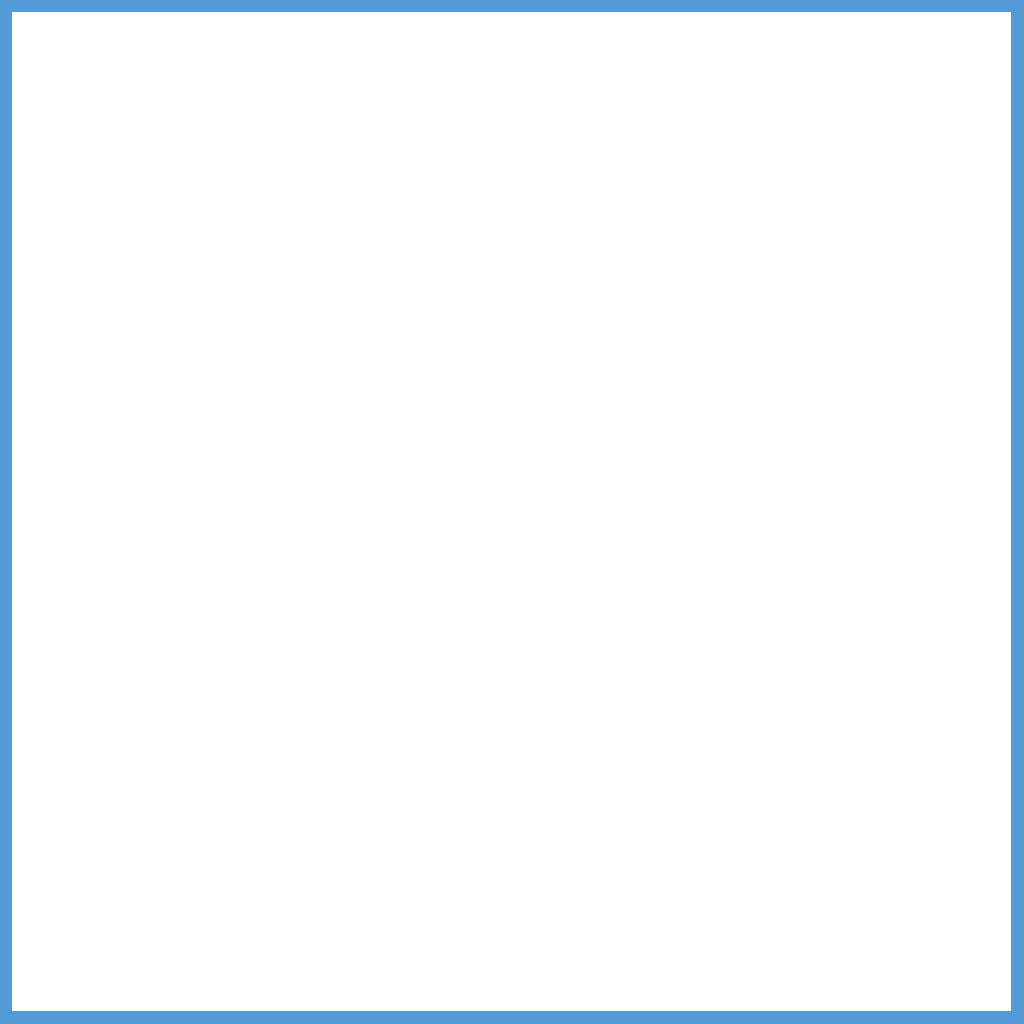
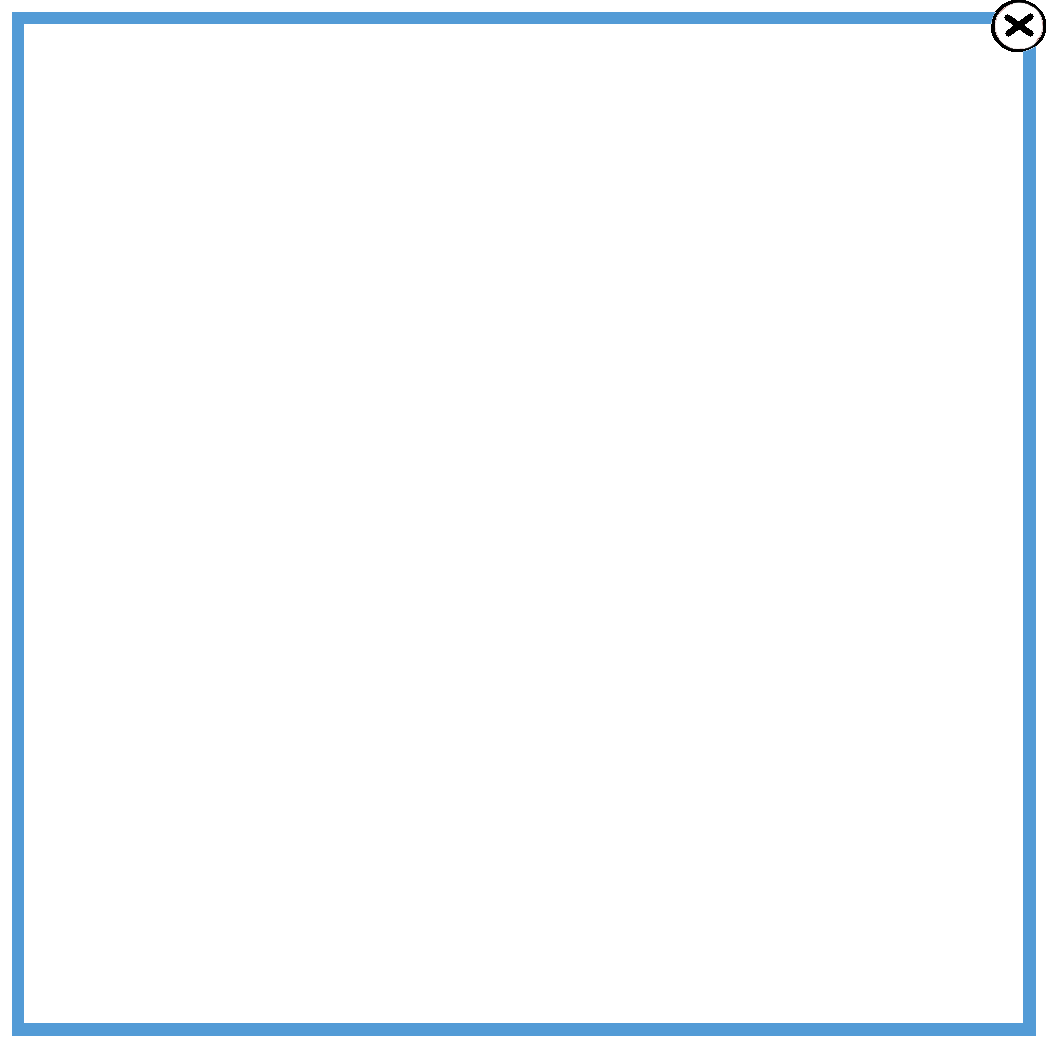
ajout d'un btn fermer sur la fenetre

Changed region(s): [[0.0, 0.0, 1.0, 1.0]]

diff --git a/index.php b/index.php
@@ -30,7 +30,7 @@ $loadProcess = $daeModelLoader->createLoadProcess($dae_models);
     <body> 
         <script>
             if (! Detector.webgl ){
-                window.location.assign("http://lapucealoreille.dev/light");
+                window.location.assign("http://www.lapussealoreille.fr/light");
             }
             var debug = false;
             var container, stats, panier;
@@ -386,7 +386,7 @@ function createTransparentPanel(direction,id,far){
     v.y = 0;
     panelCanvas = document.createElement("canvas");
     var xc = panelCanvas.getContext("2d");
-    panelCanvas.width = panelCanvas.height = 1024;
+    panelCanvas.width = panelCanvas.height = 1048;
     var modelType = pucePool.getModelType(id);
     var caracteristique = document.getElementById(modelType+"_caracteristique").value;
     var description = document.getElementById(modelType+"_description").value;
@@ -399,25 +399,25 @@ function createTransparentPanel(direction,id,far){
     var model_img_1 = document.getElementById(modelType+'_img_1');
     var model_img_2 = document.getElementById(modelType+'_img_2');
     var model_img_3 = document.getElementById(modelType+'_img_3');
-    xc.drawImage(document.getElementById('contour'), 190, 150,670,880);
+    xc.drawImage(document.getElementById('contour'), 194, 153,685,901);
     
-    xc.drawImage(model_img_0, 210, 510, 300, 225);
-    xc.drawImage(model_img_1, 532, 510, 300, 225);
-    xc.drawImage(model_img_2, 210, 770, 300, 225);
-    xc.drawImage(model_img_3, 532, 770, 300, 225);
+    xc.drawImage(model_img_0, 215, 522, 307, 230);
+    xc.drawImage(model_img_1, 544, 522, 307, 230);
+    xc.drawImage(model_img_2, 215, 788, 307, 230);
+    xc.drawImage(model_img_3, 544, 788, 307, 230);
     
     xc.fillStyle = "black";
     xc.font = "13pt arial bold";
-    xc.fillText("LA PUSSE A L'OREILLE - "+nom, 215, 215);
+    xc.fillText("LA PUSSE A L'OREILLE - "+nom, 220, 220);
     xc.font = "10pt arial bold";
     xc.mozImageSmoothingEnabled = false;
-    wrapText(xc, caracteristique, 440, 270, 400, 25);
+    wrapText(xc, caracteristique, 450, 276, 409, 26);
     
     var prix_label = "Acheter pour "+prix+" €";
-    wrapText(xc, prix_label, 710, 320, 800, 340);
+    wrapText(xc, prix_label, 726, 327.5, 819, 350);
     
     xc.font = "8pt arial bold";
-    wrapText(xc, description, 440, 345, 400, 20);    
+    wrapText(xc, description, 450, 360, 400, 21);    
         
     var panelTextGeo = new THREE.PlaneGeometry(15, 15);    
     
@@ -443,16 +443,16 @@ function createTransparentPanel(direction,id,far){
     var baseZ = camera.position.z + direction.z * far;
     
     panelText.position.x = buttonPanier.position.x = baseX ;
-    panelText.position.y = buttonPanier.position.y = -1.2;
-    panelText.position.z = buttonPanier.position.z =baseZ ;
+    panelText.position.y = buttonPanier.position.y = -1.4;
+    panelText.position.z = buttonPanier.position.z = baseZ ;
     
     panelText.position.x -= direction.x * 0.1;
     panelText.position.z -= direction.z * 0.1;
     
     
-    buttonPanier.position.y += 2.9;
-    buttonPanier.position.x += -3.85*v.z - direction.x * 0.2;
-    buttonPanier.position.z += 3.85*v.x - direction.z * 0.2;
+    buttonPanier.position.y += 2.85;
+    buttonPanier.position.x += -3.75*v.z - direction.x * 0.2;
+    buttonPanier.position.z += 3.75*v.x - direction.z * 0.2;
     
     buttonPanier.id = ajout_panier_label;
     
@@ -465,7 +465,7 @@ function createTransparentPanel(direction,id,far){
     var logoPosBase = new THREE.Vector3(baseX, -1.2+4.5, baseZ);
     logo.position.z = logoPosBase.z + 3.4*v.x + direction.z * -1.5;
     logo.position.x = logoPosBase.x - 3.4*v.z + direction.x * -1.5;
-    logo.position.y = logoPosBase.y - 0.6;  
+    logo.position.y = logoPosBase.y - 0.75;  
     
     logo.scale.x = logo.scale.y = logo.scale.z = 0.05;
     scene.add( logo );
